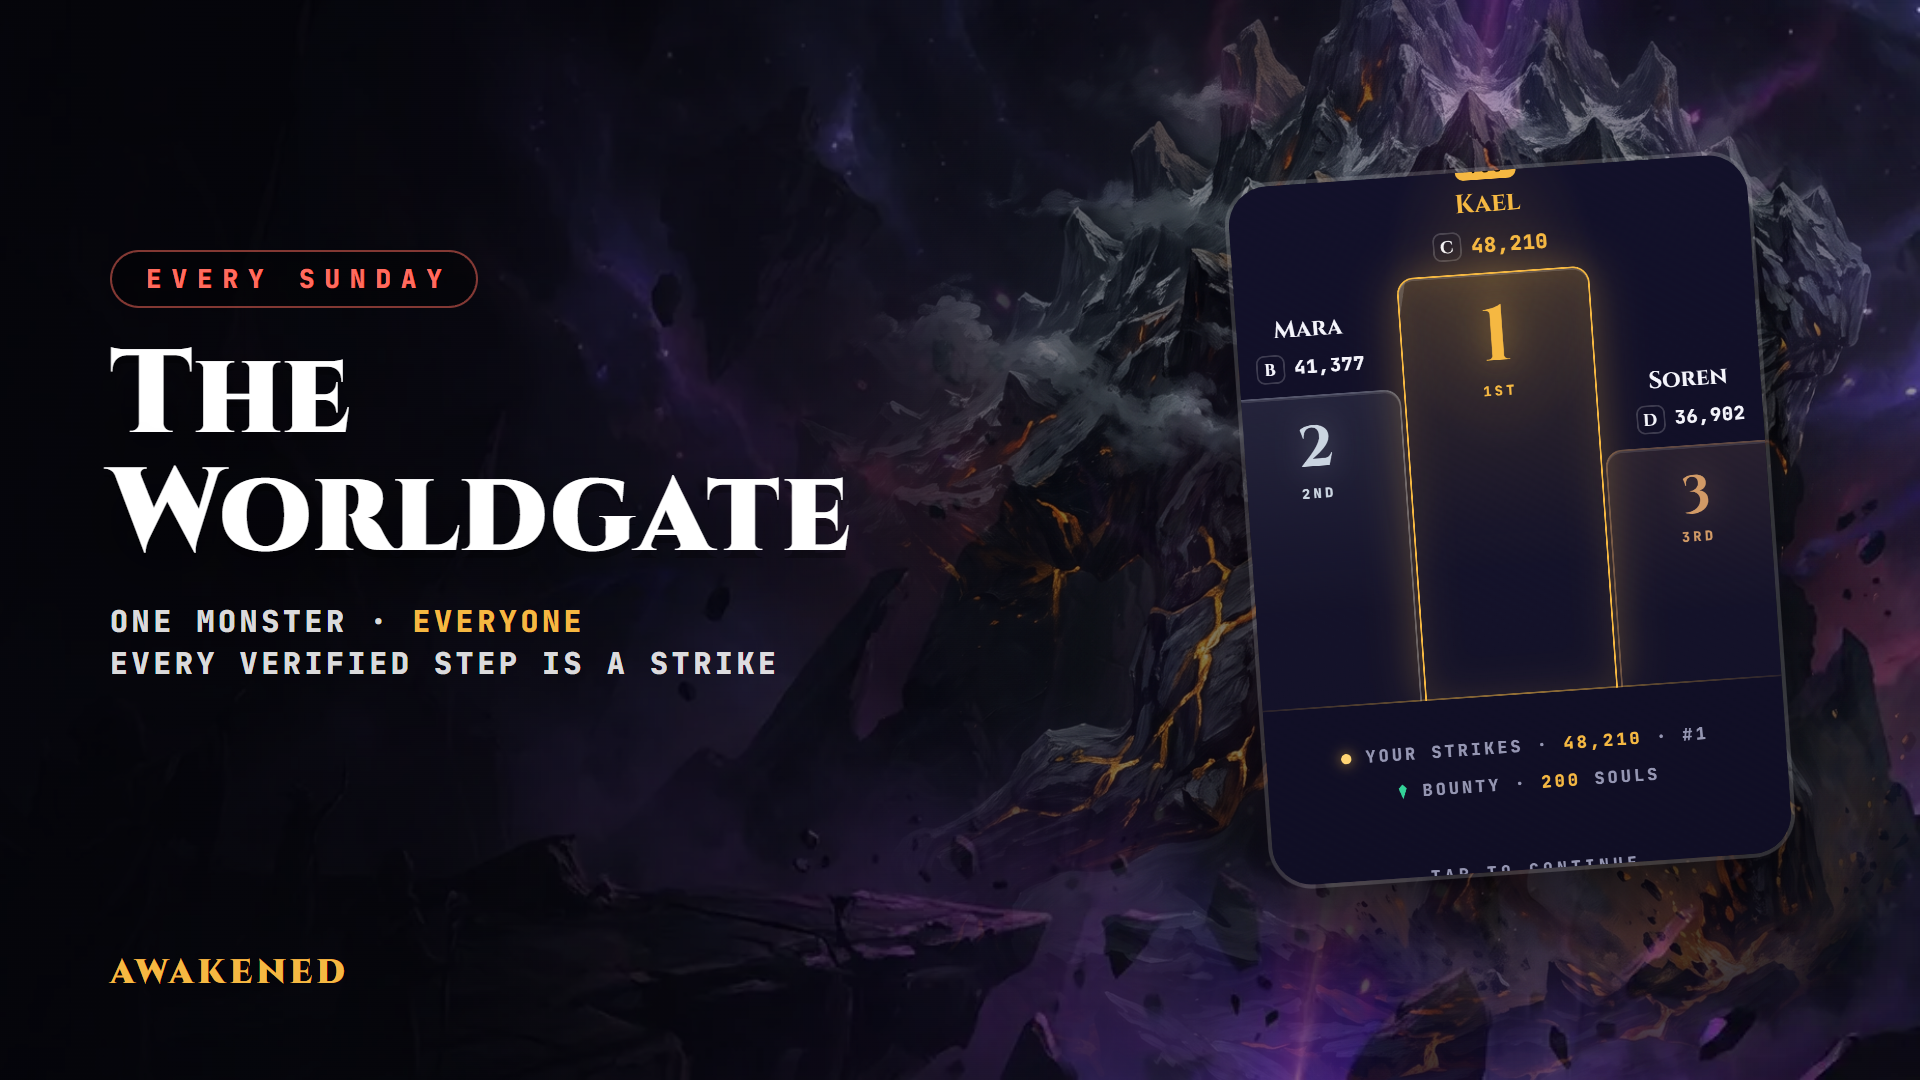
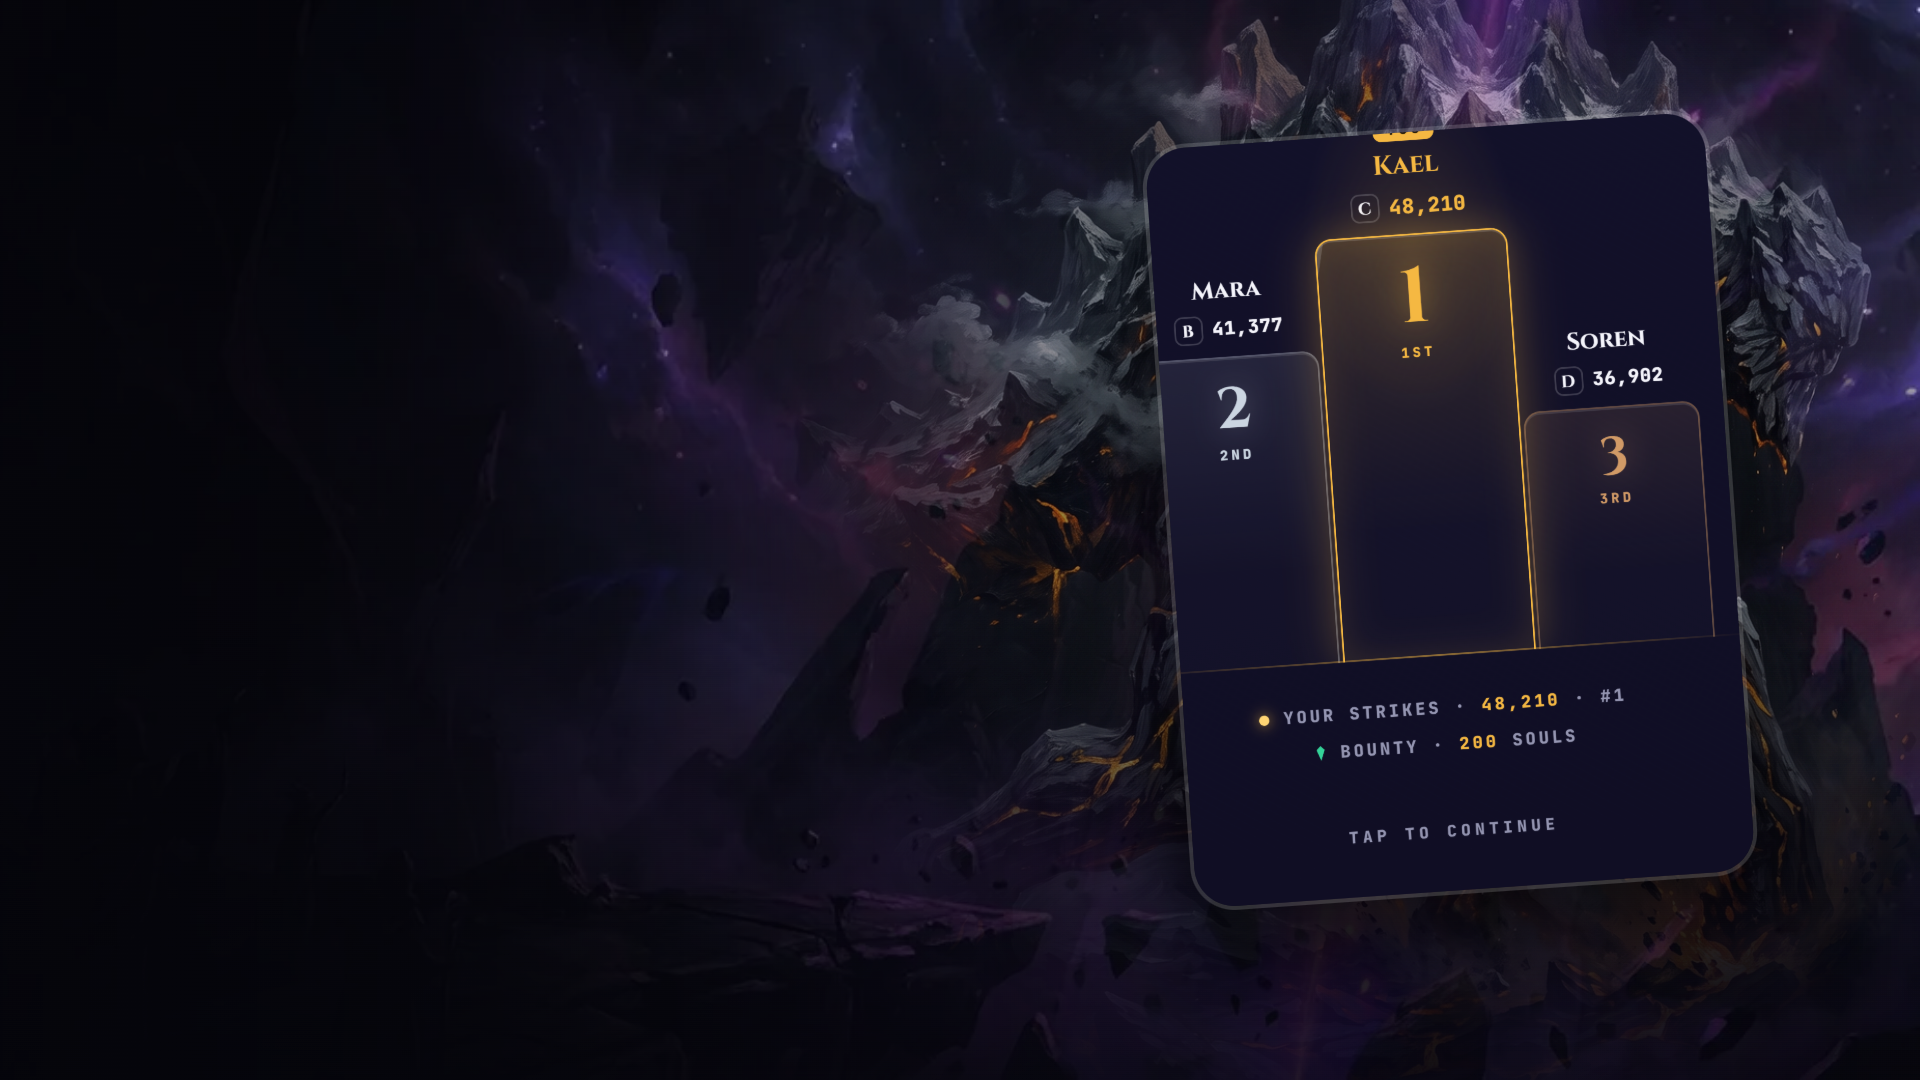
Marketing: text-free In-App Event art (the App Store overlays name + description)

diff --git a/marketing/aso-3.0.7/event.html b/marketing/aso-3.0.7/event.html
@@ -28,17 +28,21 @@
   .sub b { color: #f5b842; }
   .pop { position: absolute; border-radius: 40px; background: url(raw/mvp.png) no-repeat; box-shadow: 0 0 0 4px rgba(255,255,255,.16), 0 50px 100px rgba(0,0,0,.6); }
   .logo { position: absolute; font: 900 34px/1 'Cinzel', serif; letter-spacing: .12em; color: #f5b842; }
+  /* The App Store overlays the badge, name and short description bottom-left — no text in the art, and that corner stays dark. */
+  .copy, .logo { display: none; }
+  .card .veil { background: linear-gradient(90deg, rgba(5,5,11,.9) 0%, rgba(5,5,11,.45) 40%, rgba(5,5,11,.05) 100%), linear-gradient(0deg, rgba(5,5,11,.8) 0%, transparent 45%); }
+  .page .veil { background: linear-gradient(180deg, rgba(5,5,11,.15) 0%, rgba(5,5,11,.45) 50%, rgba(5,5,11,.95) 100%); }
   /* card layout */
   .card .boss { right: -120px; top: -140px; width: 1300px; height: 1300px; }
   .card .copy { left: 110px; top: 250px; width: 980px; }
-  .card .pop { right: 150px; top: 170px; width: 520px; height: 700px; background-size: 745px auto; background-position: -113px -735px; transform: rotate(-4deg); }
+  .card .pop { right: 190px; top: 130px; width: 560px; height: 760px; background-size: 745px auto; background-position: -113px -735px; transform: rotate(-4deg); }
   .card .logo { left: 110px; bottom: 90px; }
   /* page layout */
-  .page .boss { left: -110px; top: -80px; width: 1300px; height: 1300px; }
+  .page .boss { left: -110px; top: -180px; width: 1300px; height: 1300px; }
   .page .copy { left: 80px; right: 80px; top: 1080px; text-align: center; }
   .page h1 { font-size: 132px; }
   .page .sub { font-size: 28px; }
-  .page .pop { display: none; }
+  .page .pop { display: block; left: 150px; top: 230px; width: 780px; height: 1000px; background-size: 1117px auto; background-position: -170px -1100px; transform: rotate(-3deg); }
   .page .logo { left: 0; right: 0; bottom: 80px; text-align: center; }
 </style>
 </head>
